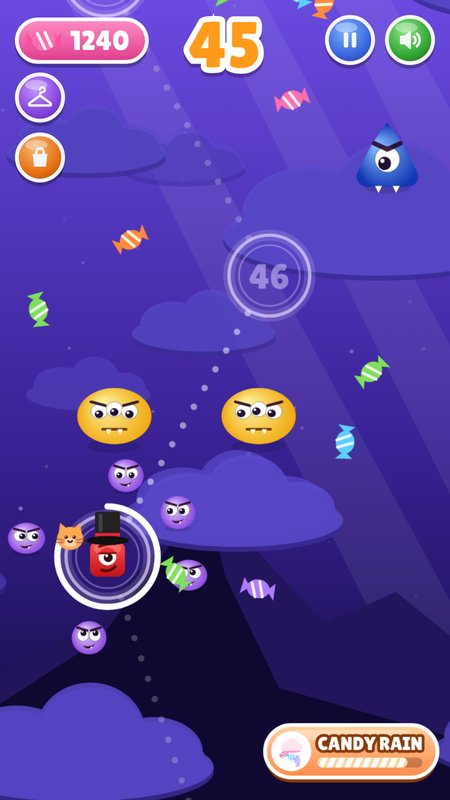
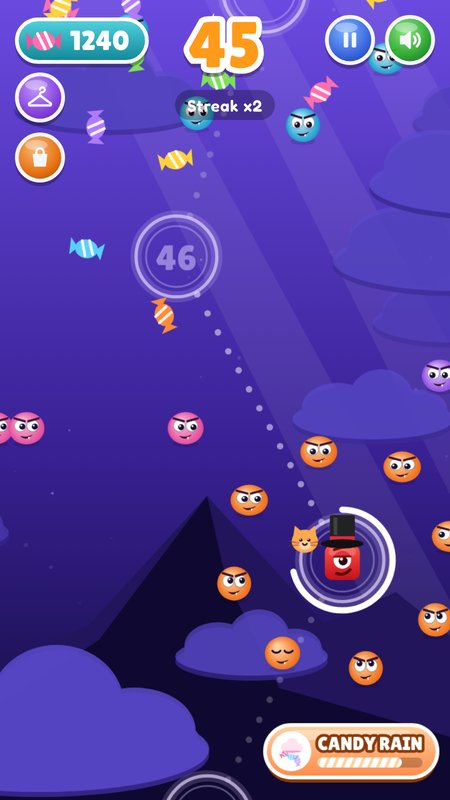
Got it respira y se aplasta al tocarlo; contador de caramelos en turquesa para que se vea el caramelo

diff --git a/index.html b/index.html
@@ -31,7 +31,7 @@ body{height:100%;margin:0;background:var(--void);color:var(--ink);font-family:va
 #hud{position:absolute;top:10px;left:0;right:0;display:flex;justify-content:center;pointer-events:none}
 #score{font-family:var(--display);font-size:52px;line-height:1;color:#ff9a1a;--sw:9px;--ss:rgba(60,20,90,.45);font-variant-numeric:tabular-nums}
 #candy{position:absolute;top:14px;left:max(12px,env(safe-area-inset-left,0px));display:flex;align-items:center;gap:6px;
-  padding:3px 12px 3px 5px;border-radius:99px;background:linear-gradient(#ff8ac4,#e0408e);border:3px solid #fff;box-shadow:0 3px 0 rgba(0,0,0,.28);pointer-events:none;transition:transform .12s}
+  padding:3px 12px 3px 5px;border-radius:99px;background:linear-gradient(#4fd0dc,#14899a);border:3px solid #fff;box-shadow:0 3px 0 rgba(0,0,0,.28);pointer-events:none;transition:transform .12s}
 #candy.bump{transform:scale(1.18)}
 /* the candy beats now and then, like a heart (as in the original game) */
 #candy svg{animation:candyBeat 5.5s ease-in-out infinite}
@@ -2720,10 +2720,13 @@ function drawIntroCard(){
   ctx.fillStyle = bad ? "#ffe0dc" : "#3d2416"; ctx.font = '600 15px "Fredoka", system-ui';
   const ls = wrapLines(line, cw-32); ls.forEach((l,i)=>ctx.fillText(l, cx, cy+38 + (i-(ls.length-1)/2)*18));
   // the player closes it when done reading
-  const bw = 120, bh = 38, byy = cy+80, pul = t>.35 ? 1+Math.sin(t*5)*.03 : 1;
-  ctx.save(); ctx.translate(cx, byy); ctx.scale(pul,pul);
+  const bw = 120, bh = 38, byy = cy+80, pul = t>.35 ? 1+Math.sin(t*4)*.05 : 1;   // it breathes like Play
+  let sx = pul, sy = pul;
+  if(out!=null){ const k = Math.sin(Math.min(1, out/.16)*Math.PI); sx = 1+.1*k; sy = 1-.14*k; }   // tapped: a gummy squash
+  ctx.save(); ctx.translate(cx, byy); ctx.scale(sx,sy);
   ctx.fillStyle = bad ? "#9a1020" : "#b8330a"; rr(-bw/2, -bh/2+4, bw, bh, 19); ctx.fill();
   ctx.fillStyle = bad ? "#e8263a" : "#f2490a"; rr(-bw/2, -bh/2, bw, bh, 19); ctx.fill();
+  ctx.strokeStyle = "#fff"; ctx.lineWidth = 3.5; rr(-bw/2, -bh/2, bw, bh, 19); ctx.stroke();
   ctx.fillStyle = "rgba(255,255,255,.3)"; rr(-bw*.4, -bh/2+3, bw*.8, bh*.36, bh*.18); ctx.fill();   // the same shine as the buttons
   ctx.fillStyle = "#fff"; ctx.font = '400 20px "Lilita One", system-ui'; ctx.fillText("Got it!", 0, 1);
   ctx.restore();
